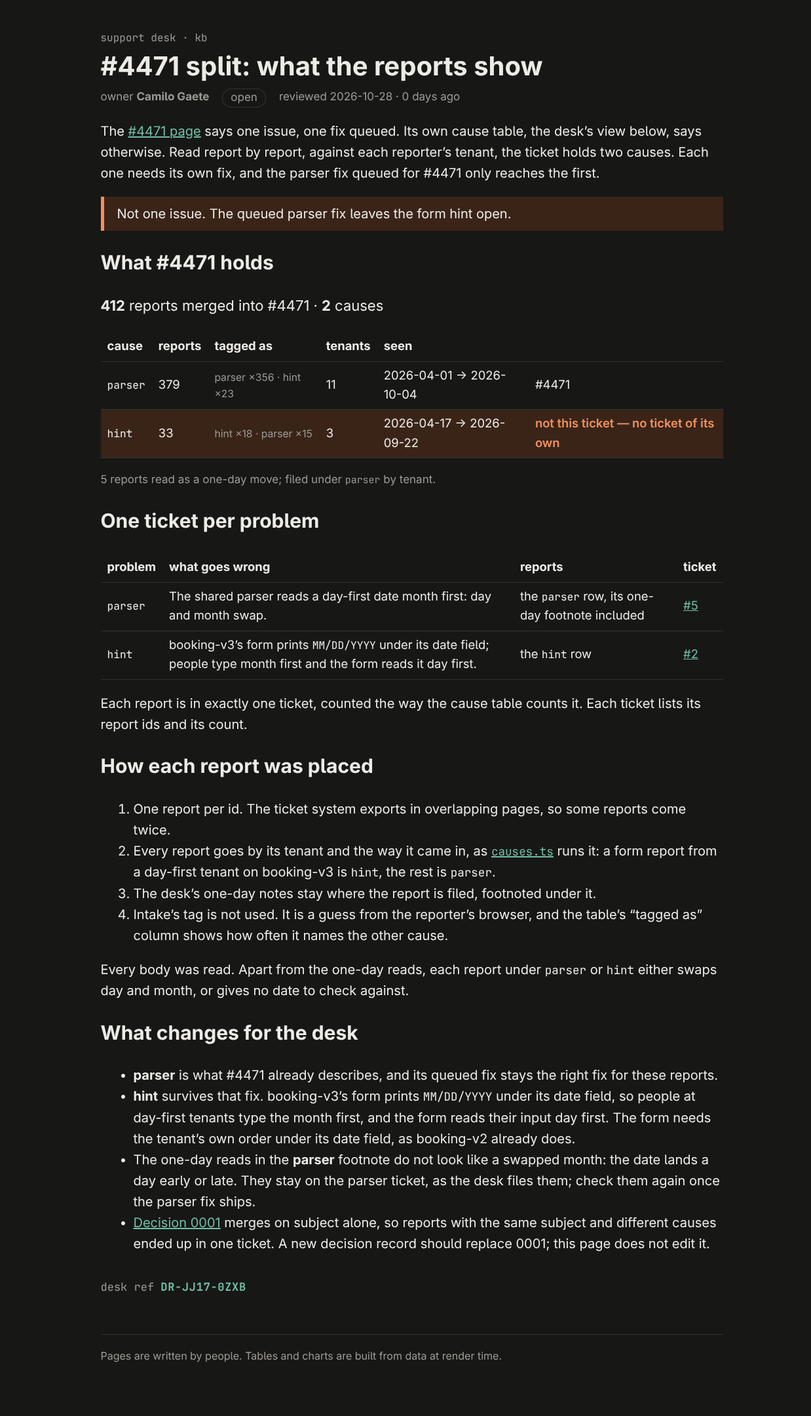
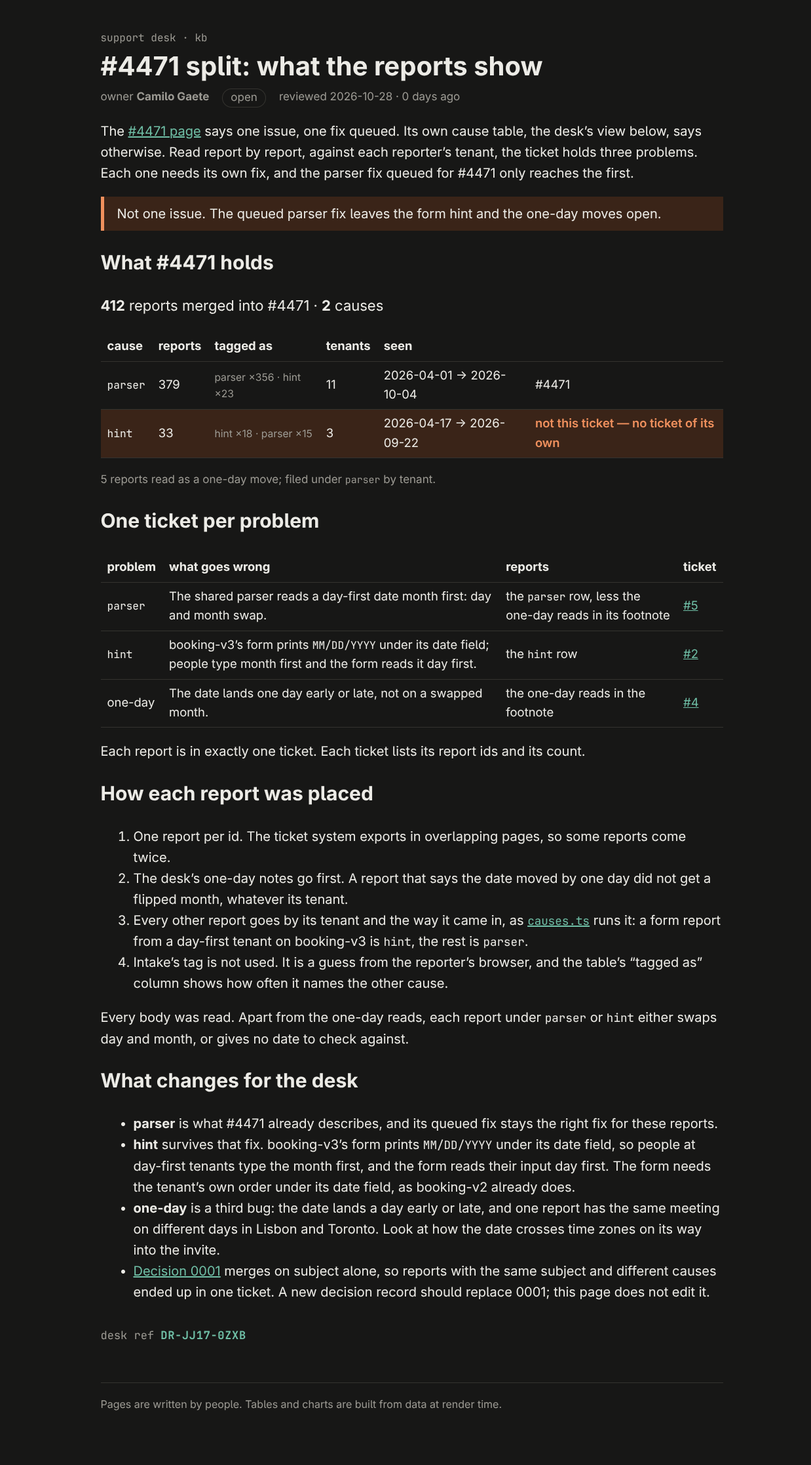
Back to the three-ticket page (parser #5, hint #2, one-day #4)

diff --git a/rendered/kb/incidents/4471-split/index.html b/rendered/kb/incidents/4471-split/index.html
@@ -9,11 +9,11 @@
 		<link href="../../../_app/immutable/chunks/B2Ul7l_u.js" rel="modulepreload">
 		<link href="../../../_app/immutable/chunks/BCPXOG7W.js" rel="modulepreload">
 		<link href="../../../_app/immutable/chunks/Dh1V97Jm.js" rel="modulepreload">
-		<link href="../../../_app/immutable/entry/app.CrQ3ZvWe.js" rel="modulepreload">
+		<link href="../../../_app/immutable/entry/app.Bp6OAHgK.js" rel="modulepreload">
 		<link href="../../../_app/immutable/nodes/0.BurGglGN.js" rel="modulepreload">
 		<link href="../../../_app/immutable/chunks/DK3Fl9T5.js" rel="modulepreload">
-		<link href="../../../_app/immutable/nodes/5.C0zIdi6M.js" rel="modulepreload">
-		<link href="../../../_app/immutable/chunks/FIEaTQpk.js" rel="modulepreload">
+		<link href="../../../_app/immutable/nodes/5.CVNcJq1B.js" rel="modulepreload">
+		<link href="../../../_app/immutable/chunks/BZMG-Rto.js" rel="modulepreload">
 		<link href="../../../_app/immutable/chunks/BTPwLomz.js" rel="modulepreload">
 		<link href="../../../_app/immutable/chunks/D_eX76ox.js" rel="modulepreload">
 		<link href="../../../_app/immutable/chunks/BIy4WKJS.js" rel="modulepreload">
@@ -26,30 +26,31 @@
   <body data-sveltekit-preload-data="hover">
     <div style="display: contents"><!--[--><!--[--><!--[0--><!--[--><!--[--><!--[-1--><!--[--><div class="kb svelte-e2jw2j"><header><a class="crumb svelte-e2jw2j" href="/kb">support desk · kb</a> <h1 class="svelte-e2jw2j">#4471 split: what the reports show</h1> <p class="meta svelte-e2jw2j"><span>owner <b>Camilo Gaete</b></span> <span class="status open svelte-e2jw2j">open</span> <span class="svelte-e2jw2j">reviewed 2026-10-28 · 0 days ago</span></p></header> <!--[-1--><!--]--> <main><p>The <a href="/kb/incidents/4471">#4471 page</a> says one issue, one fix queued. Its own cause table, the
 desk’s view below, says otherwise. Read report by report, against each reporter’s tenant, the
-ticket holds two causes. Each one needs its own fix, and the parser fix queued for #4471 only
-reaches the first.</p> <aside class="warn svelte-17bri61"><!---->Not one issue. The queued parser fix leaves the form hint open.<!----></aside><!----> <h2>What #4471 holds</h2> <p class="sum svelte-12oyimm"><strong>412</strong> reports merged into #4471 · <strong>2</strong> causes</p> <table><thead><tr><th>cause</th><th>reports</th><th>tagged as</th><th>tenants</th><th>seen</th><th></th></tr></thead><tbody><!--[--><tr class="svelte-12oyimm"><td class="svelte-12oyimm"><code>parser</code></td><td class="svelte-12oyimm">379</td><td class="tags svelte-12oyimm">parser ×356 · hint ×23</td><td class="svelte-12oyimm">11</td><td class="svelte-12oyimm">2026-04-01 → 2026-10-04</td><td class="svelte-12oyimm">#4471</td></tr><tr class="svelte-12oyimm wrong"><td class="svelte-12oyimm"><code>hint</code></td><td class="svelte-12oyimm">33</td><td class="tags svelte-12oyimm">hint ×18 · parser ×15</td><td class="svelte-12oyimm">3</td><td class="svelte-12oyimm">2026-04-17 → 2026-09-22</td><td class="svelte-12oyimm">not this ticket — no ticket of its own</td></tr><!--]--></tbody></table> <!--[--><!--[0--><p class="note svelte-12oyimm">5 reports read as a one-day move; filed under <code>parser</code> by tenant.</p><!--]--><!--[-1--><!--]--><!--]--><!----> <h2>One ticket per problem</h2> <table><thead><tr><th>problem</th><th>what goes wrong</th><th>reports</th><th>ticket</th></tr></thead><tbody><tr><td><code>parser</code></td><td>The shared parser reads a day-first date month first: day and month swap.</td><td>the <code>parser</code> row, its one-day footnote included</td><td><a href="https://github.com/CamiloGaete/support-kb-4471/issues/5" rel="nofollow">#5</a></td></tr><tr><td><code>hint</code></td><td>booking-v3’s form prints <code>MM/DD/YYYY</code> under its date field; people type month first and the form reads it day first.</td><td>the <code>hint</code> row</td><td><a href="https://github.com/CamiloGaete/support-kb-4471/issues/2" rel="nofollow">#2</a></td></tr></tbody></table> <p>Each report is in exactly one ticket, counted the way the cause table counts it. Each ticket lists its report ids and its count.</p> <h2>How each report was placed</h2> <ol><li>One report per id. The ticket system exports in overlapping pages, so some reports come twice.</li> <li>Every report goes by its tenant and the way it came in, as <a href="https://github.com/CamiloGaete/support-kb-4471/blob/main/src/lib/kb/causes.ts" rel="nofollow"><code>causes.ts</code></a> runs it: a form report from a day-first tenant on booking-v3 is <code>hint</code>, the rest is <code>parser</code>.</li> <li>The desk’s one-day notes stay where the report is filed, footnoted under it.</li> <li>Intake’s tag is not used. It is a guess from the reporter’s browser, and the table’s “tagged
+ticket holds three problems. Each one needs its own fix, and the parser fix queued for #4471 only
+reaches the first.</p> <aside class="warn svelte-17bri61"><!---->Not one issue. The queued parser fix leaves the form hint and the one-day moves open.<!----></aside><!----> <h2>What #4471 holds</h2> <p class="sum svelte-12oyimm"><strong>412</strong> reports merged into #4471 · <strong>2</strong> causes</p> <table><thead><tr><th>cause</th><th>reports</th><th>tagged as</th><th>tenants</th><th>seen</th><th></th></tr></thead><tbody><!--[--><tr class="svelte-12oyimm"><td class="svelte-12oyimm"><code>parser</code></td><td class="svelte-12oyimm">379</td><td class="tags svelte-12oyimm">parser ×356 · hint ×23</td><td class="svelte-12oyimm">11</td><td class="svelte-12oyimm">2026-04-01 → 2026-10-04</td><td class="svelte-12oyimm">#4471</td></tr><tr class="svelte-12oyimm wrong"><td class="svelte-12oyimm"><code>hint</code></td><td class="svelte-12oyimm">33</td><td class="tags svelte-12oyimm">hint ×18 · parser ×15</td><td class="svelte-12oyimm">3</td><td class="svelte-12oyimm">2026-04-17 → 2026-09-22</td><td class="svelte-12oyimm">not this ticket — no ticket of its own</td></tr><!--]--></tbody></table> <!--[--><!--[0--><p class="note svelte-12oyimm">5 reports read as a one-day move; filed under <code>parser</code> by tenant.</p><!--]--><!--[-1--><!--]--><!--]--><!----> <h2>One ticket per problem</h2> <table><thead><tr><th>problem</th><th>what goes wrong</th><th>reports</th><th>ticket</th></tr></thead><tbody><tr><td><code>parser</code></td><td>The shared parser reads a day-first date month first: day and month swap.</td><td>the <code>parser</code> row, less the one-day reads in its footnote</td><td><a href="https://github.com/CamiloGaete/support-kb-4471/issues/5" rel="nofollow">#5</a></td></tr><tr><td><code>hint</code></td><td>booking-v3’s form prints <code>MM/DD/YYYY</code> under its date field; people type month first and the form reads it day first.</td><td>the <code>hint</code> row</td><td><a href="https://github.com/CamiloGaete/support-kb-4471/issues/2" rel="nofollow">#2</a></td></tr><tr><td>one-day</td><td>The date lands one day early or late, not on a swapped month.</td><td>the one-day reads in the footnote</td><td><a href="https://github.com/CamiloGaete/support-kb-4471/issues/4" rel="nofollow">#4</a></td></tr></tbody></table> <p>Each report is in exactly one ticket. Each ticket lists its report ids and its count.</p> <h2>How each report was placed</h2> <ol><li>One report per id. The ticket system exports in overlapping pages, so some reports come twice.</li> <li>The desk’s one-day notes go first. A report that says the date moved by one day did not get a
+flipped month, whatever its tenant.</li> <li>Every other report goes by its tenant and the way it came in, as <a href="https://github.com/CamiloGaete/support-kb-4471/blob/main/src/lib/kb/causes.ts" rel="nofollow"><code>causes.ts</code></a> runs it: a form report from a day-first tenant on booking-v3 is <code>hint</code>, the rest is <code>parser</code>.</li> <li>Intake’s tag is not used. It is a guess from the reporter’s browser, and the table’s “tagged
 as” column shows how often it names the other cause.</li></ol> <p>Every body was read. Apart from the one-day reads, each report under <code>parser</code> or <code>hint</code> either
 swaps day and month, or gives no date to check against.</p> <h2>What changes for the desk</h2> <ul><li><strong>parser</strong> is what #4471 already describes, and its queued fix stays the right fix for these
 reports.</li> <li><strong>hint</strong> survives that fix. booking-v3’s form prints <code>MM/DD/YYYY</code> under its date field, so
 people at day-first tenants type the month first, and the form reads their input day first.
-The form needs the tenant’s own order under its date field, as booking-v2 already does.</li> <li>The one-day reads in the <strong>parser</strong> footnote do not look like a swapped month: the date lands a
-day early or late. They stay on the parser ticket, as the desk files them; check them again once
-the parser fix ships.</li> <li><a href="/kb/decisions/0001-dedupe-by-subject">Decision 0001</a> merges on subject alone, so reports with
+The form needs the tenant’s own order under its date field, as booking-v2 already does.</li> <li><strong>one-day</strong> is a third bug: the date lands a day early or late, and one report has the same
+meeting on different days in Lisbon and Toronto. Look at how the date crosses time zones on
+its way into the invite.</li> <li><a href="/kb/decisions/0001-dedupe-by-subject">Decision 0001</a> merges on subject alone, so reports with
 the same subject and different causes ended up in one ticket. A new decision record should
 replace 0001; this page does not edit it.</li></ul> <!--[0--><p class="stamp svelte-1280m42">desk ref <b class="svelte-1280m42">DR-JJ17-0ZXB</b></p><!--]--><!----><!----></main> <footer class="svelte-e2jw2j">Pages are written by people. Tables and charts are built from data at render time.</footer></div><!--]--><!--]--><!--]--><!----><!--]--><!--]--><!--]--><!----> <!--[-1--><!--]--><!--]-->
 			
 			<script>
 				{
-					__sveltekit_1c4gfpw = {
+					__sveltekit_1r1q3ir = {
 						base: new URL("../../..", location).pathname.slice(0, -1),
-						version: "1793222300639"
+						version: "1793221934656"
 					};
 
 					const element = document.currentScript.parentElement;
 
 					import("../../../_app/immutable/entry/start.CH5w6lId.js").then(async (kit) => {
-						kit.init(__sveltekit_1c4gfpw);
-						const app = await import("../../../_app/immutable/entry/app.CrQ3ZvWe.js");
+						kit.init(__sveltekit_1r1q3ir);
+						const app = await import("../../../_app/immutable/entry/app.Bp6OAHgK.js");
 						kit.start(app, element, {
 							node_ids: [0, 5],
 							data: [null,null],

diff --git a/rendered/_app/immutable/chunks/BZMG-Rto.js b/rendered/_app/immutable/chunks/BZMG-Rto.js
@@ -1,0 +1,14 @@
+import{t as e}from"./DK3Fl9T5.js";import{E as t,F as n,H as r,I as i,K as a,L as o,N as s,O as c,R as l,S as u,T as d,U as f,W as p,_ as m,k as h,q as g,r as _,t as v,w as y}from"./BCPXOG7W.js";import{t as b}from"./BTPwLomz.js";import{t as x}from"./D_eX76ox.js";import{t as S}from"./BIy4WKJS.js";var C=`0123456789ABCDEFGHJKMNPQRSTVWXYZ`;function w(e,t){let n=t>>>0;for(let t=0;t<e.length;t++)n^=e.charCodeAt(t),n=Math.imul(n,16777619)>>>0;return n}function T(e){let t=e.trim(),n=w(t,2166136261),r=w(t,2654435769),i=BigInt(n)<<8n|BigInt(r&255),a=``;for(let e=0;e<8;e++)a=C[Number(i&31n)]+a,i>>=5n;return`DR-${a.slice(0,4)}-${a.slice(4)}`}var E=t(`<p class="stamp svelte-1280m42">desk ref <b class="svelte-1280m42"> </b></p>`),D=t(`<p class="stamp missing svelte-1280m42">no desk ref: this page isn't signed (no <code>signature</code> in its frontmatter)</p>`);function O(e,t){p(t,!0);let a=r(()=>t.signature?T(t.signature):null);var c=d(),_=i(c),v=e=>{var t=E(),r=l(n(t)),i=o(r,!0);g(t),s(()=>u(i,h(a))),y(e,t)},b=e=>{var t=D();y(e,t)};m(_,e=>{h(a)?e(v):e(b,-1)}),y(e,c),f()}var k=e({default:()=>R,metadata:()=>A}),A={layout:`runbook`,title:`#4471 split: what the reports show`,owner:`Camilo Gaete`,status:`open`,reviewed:`2026-10-28T00:00:00.000Z`,signature:`v1.eyJzdWIiOiIzMDIiLCJhdWQiOiJjaGFsbGVuZ2U6d2hhdC1pdC1zaG93cyIsImlhdCI6MTc5MzIxODI1NywiZXhwIjoxNzkzMzA0NjU3fQ.ib5O7nSz4A4s80pjVwiKF3khW6C-5l8RFRv_YjpKHjs`},{layout:j,title:M,owner:N,status:P,reviewed:F,signature:I}=A,L=t(`<p>The <a href="/kb/incidents/4471">#4471 page</a> says one issue, one fix queued. Its own cause table, the
+desk’s view below, says otherwise. Read report by report, against each reporter’s tenant, the
+ticket holds three problems. Each one needs its own fix, and the parser fix queued for #4471 only
+reaches the first.</p> <!> <h2>What #4471 holds</h2> <!> <h2>One ticket per problem</h2> <table><thead><tr><th>problem</th><th>what goes wrong</th><th>reports</th><th>ticket</th></tr></thead><tbody><tr><td><code>parser</code></td><td>The shared parser reads a day-first date month first: day and month swap.</td><td>the <code>parser</code> row, less the one-day reads in its footnote</td><td><a href="https://github.com/CamiloGaete/support-kb-4471/issues/5" rel="nofollow">#5</a></td></tr><tr><td><code>hint</code></td><td>booking-v3’s form prints <code>MM/DD/YYYY</code> under its date field; people type month first and the form reads it day first.</td><td>the <code>hint</code> row</td><td><a href="https://github.com/CamiloGaete/support-kb-4471/issues/2" rel="nofollow">#2</a></td></tr><tr><td>one-day</td><td>The date lands one day early or late, not on a swapped month.</td><td>the one-day reads in the footnote</td><td><a href="https://github.com/CamiloGaete/support-kb-4471/issues/4" rel="nofollow">#4</a></td></tr></tbody></table> <p>Each report is in exactly one ticket. Each ticket lists its report ids and its count.</p> <h2>How each report was placed</h2> <ol><li>One report per id. The ticket system exports in overlapping pages, so some reports come twice.</li> <li>The desk’s one-day notes go first. A report that says the date moved by one day did not get a
+flipped month, whatever its tenant.</li> <li>Every other report goes by its tenant and the way it came in, as <a href="https://github.com/CamiloGaete/support-kb-4471/blob/main/src/lib/kb/causes.ts" rel="nofollow"><code>causes.ts</code></a> runs it: a form report from a day-first tenant on booking-v3 is <code>hint</code>, the rest is <code>parser</code>.</li> <li>Intake’s tag is not used. It is a guess from the reporter’s browser, and the table’s “tagged
+as” column shows how often it names the other cause.</li></ol> <p>Every body was read. Apart from the one-day reads, each report under <code>parser</code> or <code>hint</code> either
+swaps day and month, or gives no date to check against.</p> <h2>What changes for the desk</h2> <ul><li><strong>parser</strong> is what #4471 already describes, and its queued fix stays the right fix for these
+reports.</li> <li><strong>hint</strong> survives that fix. booking-v3’s form prints <code>MM/DD/YYYY</code> under its date field, so
+people at day-first tenants type the month first, and the form reads their input day first.
+The form needs the tenant’s own order under its date field, as booking-v2 already does.</li> <li><strong>one-day</strong> is a third bug: the date lands a day early or late, and one report has the same
+meeting on different days in Lisbon and Toronto. Look at how the date crosses time zones on
+its way into the invite.</li> <li><a href="/kb/decisions/0001-dedupe-by-subject">Decision 0001</a> merges on subject alone, so reports with
+the same subject and different causes ended up in one ticket. A new decision record should
+replace 0001; this page does not edit it.</li></ul> <!>`,1);function R(e,t){let n=v(t,[`children`,`$$slots`,`$$events`,`$$legacy`]);b(e,_(()=>n,()=>A,{children:(e,t)=>{var n=L(),r=l(i(n),2);S(r,{kind:`warn`,children:(e,t)=>{a();var n=c(`Not one issue. The queued parser fix leaves the form hint and the one-day moves open.`);y(e,n)},$$slots:{default:!0}});var o=l(r,4);x(o,{ticket:4471}),O(l(o,18),{get signature(){return I}}),y(e,n)},$$slots:{default:!0}}))}export{R as n,k as t};

diff --git a/rendered/_app/immutable/nodes/2.Chr_K3sZ.js b/rendered/_app/immutable/nodes/2.Chr_K3sZ.js
@@ -1,0 +1,2 @@
+import{E as e,F as t,I as n,K as r,L as i,N as a,R as o,S as s,U as c,W as l,c as u,d,h as f,i as p,k as m,q as h,r as g,t as _,w as v}from"../chunks/BCPXOG7W.js";import{n as y,r as b,t as x}from"../chunks/BTPwLomz.js";import{t as S}from"../chunks/YX22L_Ud.js";import{t as C}from"../chunks/C7NBqcQG.js";import{t as w}from"../chunks/BZMG-Rto.js";import{t as T}from"../chunks/BGqJVSDw.js";var E=e(`<tr><td><a> </a></td><td> </td><td> </td><td> </td></tr>`),D=e(`<table><thead><tr><th>page</th><th>owner</th><th>status</th><th>reviewed</th></tr></thead><tbody></tbody></table>`);function O(e,n){l(n,!1);let r=Object.entries(Object.assign({"/src/routes/kb/decisions/0001-dedupe-by-subject/+page.svx":S,"/src/routes/kb/incidents/4471/+page.svx":C,"/src/routes/kb/incidents/4471-split/+page.svx":w,"/src/routes/kb/triage/dedupe/+page.svx":T})).map(([e,t])=>({href:e.replace(`/src/routes`,``).replace(`/+page.svx`,``),...t.metadata})).sort((e,t)=>e.href.localeCompare(t.href));p();var g=D(),_=o(t(g));f(_,5,()=>r,e=>e.href,(e,n)=>{var r=E(),c=t(r),l=t(c),f=i(l,!0);h(c);var p=o(c),g=i(p,!0),_=o(p),x=i(_,!0),S=o(_);let C;var w=i(S,!0);h(r),a((e,t)=>{u(l,`href`,m(n).href),s(f,m(n).title),s(g,m(n).owner),s(x,m(n).status),C=d(S,1,`svelte-tbc1ha`,null,C,{stale:e}),s(w,t)},[()=>y(m(n).reviewed)>180,()=>b(m(n).reviewed)]),v(e,r)}),h(_),h(g),v(e,g),c()}var k={layout:`runbook`,title:`Support knowledge base`,owner:`support desk`,status:`living`,reviewed:`2026-09-28T00:00:00.000Z`},{layout:A,title:j,owner:M,status:N,reviewed:P}=k,F=e(`<p>What the support desk knows, kept next to the code that knows it. One desk, every product: <code>sched-prod</code> (calendar invites for about 300k people) and the rest. When something breaks, the reports land here first.</p> <p>Start with <a href="/kb/triage/dedupe">triage</a> if you are new on the desk.</p> <h2>Pages</h2> <!> <h2>Writing a page</h2> <p>Keep the words here and the logic in <code>src/lib</code>. A number that can be computed should be
+computed by a component, not typed into a paragraph.</p>`,1);function I(e,t){let i=_(t,[`children`,`$$slots`,`$$events`,`$$legacy`]);x(e,g(()=>i,()=>k,{children:(e,t)=>{var i=F();O(o(n(i),6),{}),r(4),v(e,i)},$$slots:{default:!0}}))}export{I as component};

diff --git a/rendered/kb/index.html b/rendered/kb/index.html
@@ -9,16 +9,16 @@
 		<link href="../_app/immutable/chunks/B2Ul7l_u.js" rel="modulepreload">
 		<link href="../_app/immutable/chunks/BCPXOG7W.js" rel="modulepreload">
 		<link href="../_app/immutable/chunks/Dh1V97Jm.js" rel="modulepreload">
-		<link href="../_app/immutable/entry/app.CrQ3ZvWe.js" rel="modulepreload">
+		<link href="../_app/immutable/entry/app.Bp6OAHgK.js" rel="modulepreload">
 		<link href="../_app/immutable/nodes/0.BurGglGN.js" rel="modulepreload">
 		<link href="../_app/immutable/chunks/DK3Fl9T5.js" rel="modulepreload">
-		<link href="../_app/immutable/nodes/2.BowG03FR.js" rel="modulepreload">
+		<link href="../_app/immutable/nodes/2.Chr_K3sZ.js" rel="modulepreload">
 		<link href="../_app/immutable/chunks/BTPwLomz.js" rel="modulepreload">
 		<link href="../_app/immutable/chunks/YX22L_Ud.js" rel="modulepreload">
 		<link href="../_app/immutable/chunks/C7NBqcQG.js" rel="modulepreload">
 		<link href="../_app/immutable/chunks/D_eX76ox.js" rel="modulepreload">
 		<link href="../_app/immutable/chunks/BIy4WKJS.js" rel="modulepreload">
-		<link href="../_app/immutable/chunks/FIEaTQpk.js" rel="modulepreload">
+		<link href="../_app/immutable/chunks/BZMG-Rto.js" rel="modulepreload">
 		<link href="../_app/immutable/chunks/BGqJVSDw.js" rel="modulepreload">
 		<!--e2jw2j--><!----><title>Support knowledge base · support kb</title>
 		<link href="../_app/immutable/assets/runbook.COyw0cbZ.css" rel="stylesheet">
@@ -35,16 +35,16 @@ computed by a component, not typed into a paragraph.</p><!----></main> <footer c
 			
 			<script>
 				{
-					__sveltekit_1c4gfpw = {
+					__sveltekit_1r1q3ir = {
 						base: new URL("..", location).pathname.slice(0, -1),
-						version: "1793222300639"
+						version: "1793221934656"
 					};
 
 					const element = document.currentScript.parentElement;
 
 					import("../_app/immutable/entry/start.CH5w6lId.js").then(async (kit) => {
-						kit.init(__sveltekit_1c4gfpw);
-						const app = await import("../_app/immutable/entry/app.CrQ3ZvWe.js");
+						kit.init(__sveltekit_1r1q3ir);
+						const app = await import("../_app/immutable/entry/app.Bp6OAHgK.js");
 						kit.start(app, element, {
 							node_ids: [0, 2],
 							data: [null,null],

diff --git a/rendered/_app/immutable/entry/app.Bp6OAHgK.js b/rendered/_app/immutable/entry/app.Bp6OAHgK.js
@@ -1,0 +1,2 @@
+const __vite__mapDeps=(i,m=__vite__mapDeps,d=(m.f||(m.f=["../nodes/0.BurGglGN.js","../chunks/DK3Fl9T5.js","../chunks/BCPXOG7W.js","../nodes/1.mOwa9YdW.js","../chunks/Dh1V97Jm.js","./payload.DSmR2FwN.js","../nodes/2.Chr_K3sZ.js","../chunks/BTPwLomz.js","../assets/runbook.COyw0cbZ.css","../chunks/YX22L_Ud.js","../chunks/C7NBqcQG.js","../chunks/D_eX76ox.js","../chunks/BIy4WKJS.js","../assets/Callout.AbLv9dM_.css","../assets/CauseTable.DuKfINX_.css","../assets/_page.BwRNheVv.css","../chunks/BZMG-Rto.js","../assets/_page.WePi3wDe.css","../chunks/BGqJVSDw.js","../assets/_page.DO6Yid7X.css","../assets/2.Bt0MwIZg.css","../nodes/3.DRxPfvn3.js","../nodes/4.r04HXAAh.js","../nodes/5.CVNcJq1B.js","../nodes/6.sFtxrtyV.js"])))=>i.map(i=>d[i]);
+import{t as e}from"../chunks/CRzLMJPS.js";var t={},n=[()=>e(()=>import(`../nodes/0.BurGglGN.js`),__vite__mapDeps([0,1,2]),import.meta.url),()=>e(()=>import(`../nodes/1.mOwa9YdW.js`),__vite__mapDeps([3,2,4,5]),import.meta.url),()=>e(()=>import(`../nodes/2.Chr_K3sZ.js`),__vite__mapDeps([6,2,7,8,9,1,10,11,12,13,14,15,16,17,18,19,20]),import.meta.url),()=>e(()=>import(`../nodes/3.DRxPfvn3.js`),__vite__mapDeps([21,9,1,2,7,8]),import.meta.url),()=>e(()=>import(`../nodes/4.r04HXAAh.js`),__vite__mapDeps([22,10,1,2,7,8,11,12,13,14,15]),import.meta.url),()=>e(()=>import(`../nodes/5.CVNcJq1B.js`),__vite__mapDeps([23,16,1,2,7,8,11,12,13,14,17]),import.meta.url),()=>e(()=>import(`../nodes/6.sFtxrtyV.js`),__vite__mapDeps([24,18,1,2,7,8,12,13,19]),import.meta.url)],r=[],i={"/kb":[2],"/kb/decisions/0001-dedupe-by-subject":[3],"/kb/incidents/4471-split":[5],"/kb/incidents/4471":[4],"/kb/triage/dedupe":[6]},a={handleError:(({kind:e,error:t})=>{e===`unknown`&&console.error(t)}),reroute:(()=>{}),transport:{}},o=Object.fromEntries(Object.entries(a.transport).map(([e,t])=>[e,t.decode])),s=Object.fromEntries(Object.entries(a.transport).map(([e,t])=>[e,t.encode])),c=!1,l=(e,t)=>o[e](t),u=()=>e(()=>import(`../chunks/Bjy-W4x2.js`).then(e=>e.default),[],import.meta.url);export{l as decode,o as decoders,i as dictionary,s as encoders,u as get_error_template,c as hash,a as hooks,t as matchers,n as nodes,r as server_loads};

diff --git a/rendered/kb/decisions/0001-dedupe-by-subject/index.html b/rendered/kb/decisions/0001-dedupe-by-subject/index.html
@@ -9,7 +9,7 @@
 		<link href="../../../_app/immutable/chunks/B2Ul7l_u.js" rel="modulepreload">
 		<link href="../../../_app/immutable/chunks/BCPXOG7W.js" rel="modulepreload">
 		<link href="../../../_app/immutable/chunks/Dh1V97Jm.js" rel="modulepreload">
-		<link href="../../../_app/immutable/entry/app.CrQ3ZvWe.js" rel="modulepreload">
+		<link href="../../../_app/immutable/entry/app.Bp6OAHgK.js" rel="modulepreload">
 		<link href="../../../_app/immutable/nodes/0.BurGglGN.js" rel="modulepreload">
 		<link href="../../../_app/immutable/chunks/DK3Fl9T5.js" rel="modulepreload">
 		<link href="../../../_app/immutable/nodes/3.DRxPfvn3.js" rel="modulepreload">
@@ -26,16 +26,16 @@ engineering merges them later.</li></ul><!----></main> <footer class="svelte-e2j
 			
 			<script>
 				{
-					__sveltekit_1c4gfpw = {
+					__sveltekit_1r1q3ir = {
 						base: new URL("../../..", location).pathname.slice(0, -1),
-						version: "1793222300639"
+						version: "1793221934656"
 					};
 
 					const element = document.currentScript.parentElement;
 
 					import("../../../_app/immutable/entry/start.CH5w6lId.js").then(async (kit) => {
-						kit.init(__sveltekit_1c4gfpw);
-						const app = await import("../../../_app/immutable/entry/app.CrQ3ZvWe.js");
+						kit.init(__sveltekit_1r1q3ir);
+						const app = await import("../../../_app/immutable/entry/app.Bp6OAHgK.js");
 						kit.start(app, element, {
 							node_ids: [0, 3],
 							data: [null,null],

diff --git a/rendered/kb/incidents/4471/index.html b/rendered/kb/incidents/4471/index.html
@@ -9,7 +9,7 @@
 		<link href="../../../_app/immutable/chunks/B2Ul7l_u.js" rel="modulepreload">
 		<link href="../../../_app/immutable/chunks/BCPXOG7W.js" rel="modulepreload">
 		<link href="../../../_app/immutable/chunks/Dh1V97Jm.js" rel="modulepreload">
-		<link href="../../../_app/immutable/entry/app.CrQ3ZvWe.js" rel="modulepreload">
+		<link href="../../../_app/immutable/entry/app.Bp6OAHgK.js" rel="modulepreload">
 		<link href="../../../_app/immutable/nodes/0.BurGglGN.js" rel="modulepreload">
 		<link href="../../../_app/immutable/chunks/DK3Fl9T5.js" rel="modulepreload">
 		<link href="../../../_app/immutable/nodes/4.r04HXAAh.js" rel="modulepreload">
@@ -30,16 +30,16 @@ first. The fix is queued.</p> <aside class="note svelte-17bri61"><!---->Known. O
 			
 			<script>
 				{
-					__sveltekit_1c4gfpw = {
+					__sveltekit_1r1q3ir = {
 						base: new URL("../../..", location).pathname.slice(0, -1),
-						version: "1793222300639"
+						version: "1793221934656"
 					};
 
 					const element = document.currentScript.parentElement;
 
 					import("../../../_app/immutable/entry/start.CH5w6lId.js").then(async (kit) => {
-						kit.init(__sveltekit_1c4gfpw);
-						const app = await import("../../../_app/immutable/entry/app.CrQ3ZvWe.js");
+						kit.init(__sveltekit_1r1q3ir);
+						const app = await import("../../../_app/immutable/entry/app.Bp6OAHgK.js");
 						kit.start(app, element, {
 							node_ids: [0, 4],
 							data: [null,null],

diff --git a/rendered/kb/triage/dedupe/index.html b/rendered/kb/triage/dedupe/index.html
@@ -9,7 +9,7 @@
 		<link href="../../../_app/immutable/chunks/B2Ul7l_u.js" rel="modulepreload">
 		<link href="../../../_app/immutable/chunks/BCPXOG7W.js" rel="modulepreload">
 		<link href="../../../_app/immutable/chunks/Dh1V97Jm.js" rel="modulepreload">
-		<link href="../../../_app/immutable/entry/app.CrQ3ZvWe.js" rel="modulepreload">
+		<link href="../../../_app/immutable/entry/app.Bp6OAHgK.js" rel="modulepreload">
 		<link href="../../../_app/immutable/nodes/0.BurGglGN.js" rel="modulepreload">
 		<link href="../../../_app/immutable/chunks/DK3Fl9T5.js" rel="modulepreload">
 		<link href="../../../_app/immutable/nodes/6.sFtxrtyV.js" rel="modulepreload">
@@ -29,16 +29,16 @@ anything else.<!----></aside><!----> <h2>Try it</h2> <div class="try svelte-gq0h
 			
 			<script>
 				{
-					__sveltekit_1c4gfpw = {
+					__sveltekit_1r1q3ir = {
 						base: new URL("../../..", location).pathname.slice(0, -1),
-						version: "1793222300639"
+						version: "1793221934656"
 					};
 
 					const element = document.currentScript.parentElement;
 
 					import("../../../_app/immutable/entry/start.CH5w6lId.js").then(async (kit) => {
-						kit.init(__sveltekit_1c4gfpw);
-						const app = await import("../../../_app/immutable/entry/app.CrQ3ZvWe.js");
+						kit.init(__sveltekit_1r1q3ir);
+						const app = await import("../../../_app/immutable/entry/app.Bp6OAHgK.js");
 						kit.start(app, element, {
 							node_ids: [0, 6],
 							data: [null,null],

diff --git a/rendered/_app/immutable/nodes/5.CVNcJq1B.js b/rendered/_app/immutable/nodes/5.CVNcJq1B.js
@@ -1,0 +1,1 @@
+export{n as component}from"../chunks/BZMG-Rto.js";
